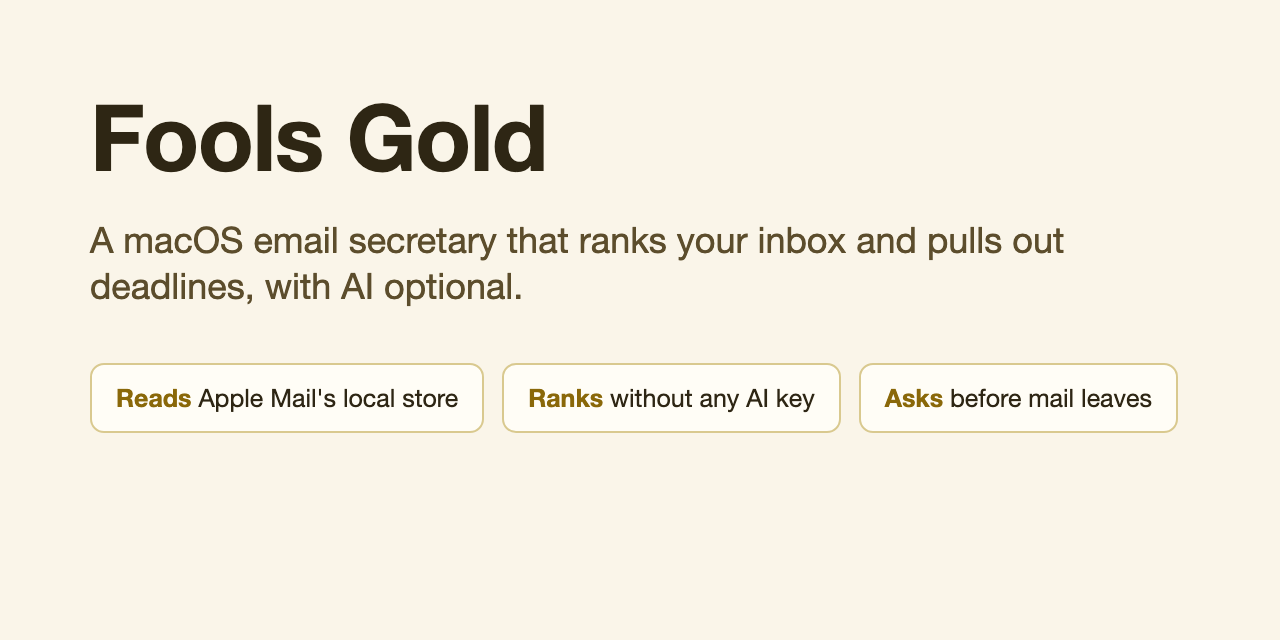
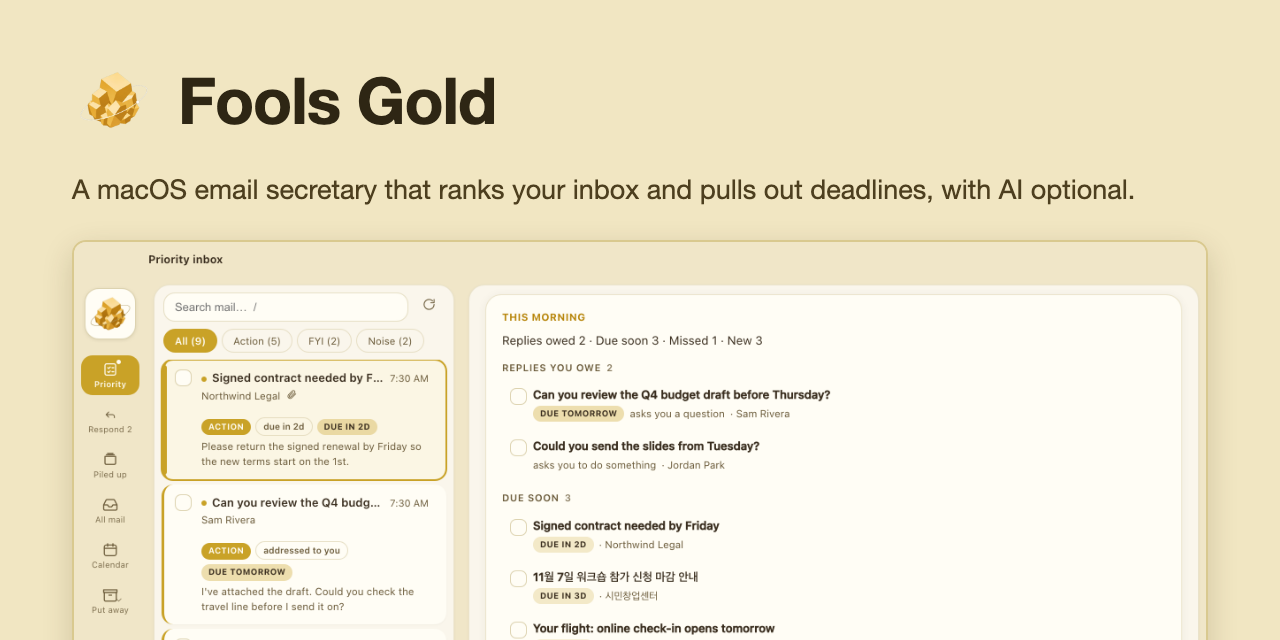
docs(readme): add real captures of the app and a new social card
Records the production build against verify/stub_api.py with neutral demo
mail: an animated hero (priority list and morning report, To respond, then
a to-do ticked on the calendar) in light and dark, still fallbacks, and
To respond, calendar and Korean screenshots. The diagram moves to
diagram.* for the How it works section, and the social card now shows the
real app under the name and one line.

diff --git a/docs/readme/social.html b/docs/readme/social.html
@@ -1,6 +1,12 @@
 <!doctype html><html><head><meta charset="utf-8"><style>
-*{box-sizing:border-box}html,body{margin:0;width:1280px;height:640px;background:#faf5e9;color:#2e2614;font:22px -apple-system,"Helvetica Neue",Arial,sans-serif}
-.w{padding:80px 90px}h1{font-size:92px;margin:0;letter-spacing:-1.5px}.s{font-size:36px;line-height:1.28;color:#5c4d2c;margin:24px 0 54px;max-width:1040px}
-.r{display:flex;gap:18px}.t{background:#fffdf6;border:2px solid #d9c98f;border-radius:14px;padding:18px 24px;font-size:25px}.t b{color:#8a6809}
-</style></head><body><div class="w"><h1>Fools Gold</h1><div class="s">A macOS email secretary that ranks your inbox and pulls out deadlines, with AI optional.</div>
-<div class="r"><div class="t"><b>Reads</b> Apple Mail's local store</div><div class="t"><b>Ranks</b> without any AI key</div><div class="t"><b>Asks</b> before mail leaves</div></div></div></body></html>
+*{box-sizing:border-box}html,body{margin:0;width:1280px;height:640px;overflow:hidden;background:#f1e6c2;color:#2e2614;font:22px -apple-system,"Helvetica Neue",Arial,sans-serif}
+.t{position:absolute;left:72px;top:58px;display:flex;align-items:center;gap:22px}
+.t img{width:84px;height:84px}
+h1{font-size:64px;margin:0;letter-spacing:-1px;line-height:1}
+.s{position:absolute;left:72px;top:172px;font-size:27px;line-height:1.3;color:#4d3f1f;white-space:nowrap}
+.shot{position:absolute;left:72px;top:240px;width:1136px;border-radius:14px;border:2px solid #d9c98f;box-shadow:0 10px 30px rgba(60,45,10,.18)}
+</style></head><body>
+<div class="t"><img src="../../assets/logo.png" alt=""><h1>Fools Gold</h1></div>
+<div class="s">A macOS email secretary that ranks your inbox and pulls out deadlines, with AI optional.</div>
+<img class="shot" src="hero.png" alt="">
+</body></html>
